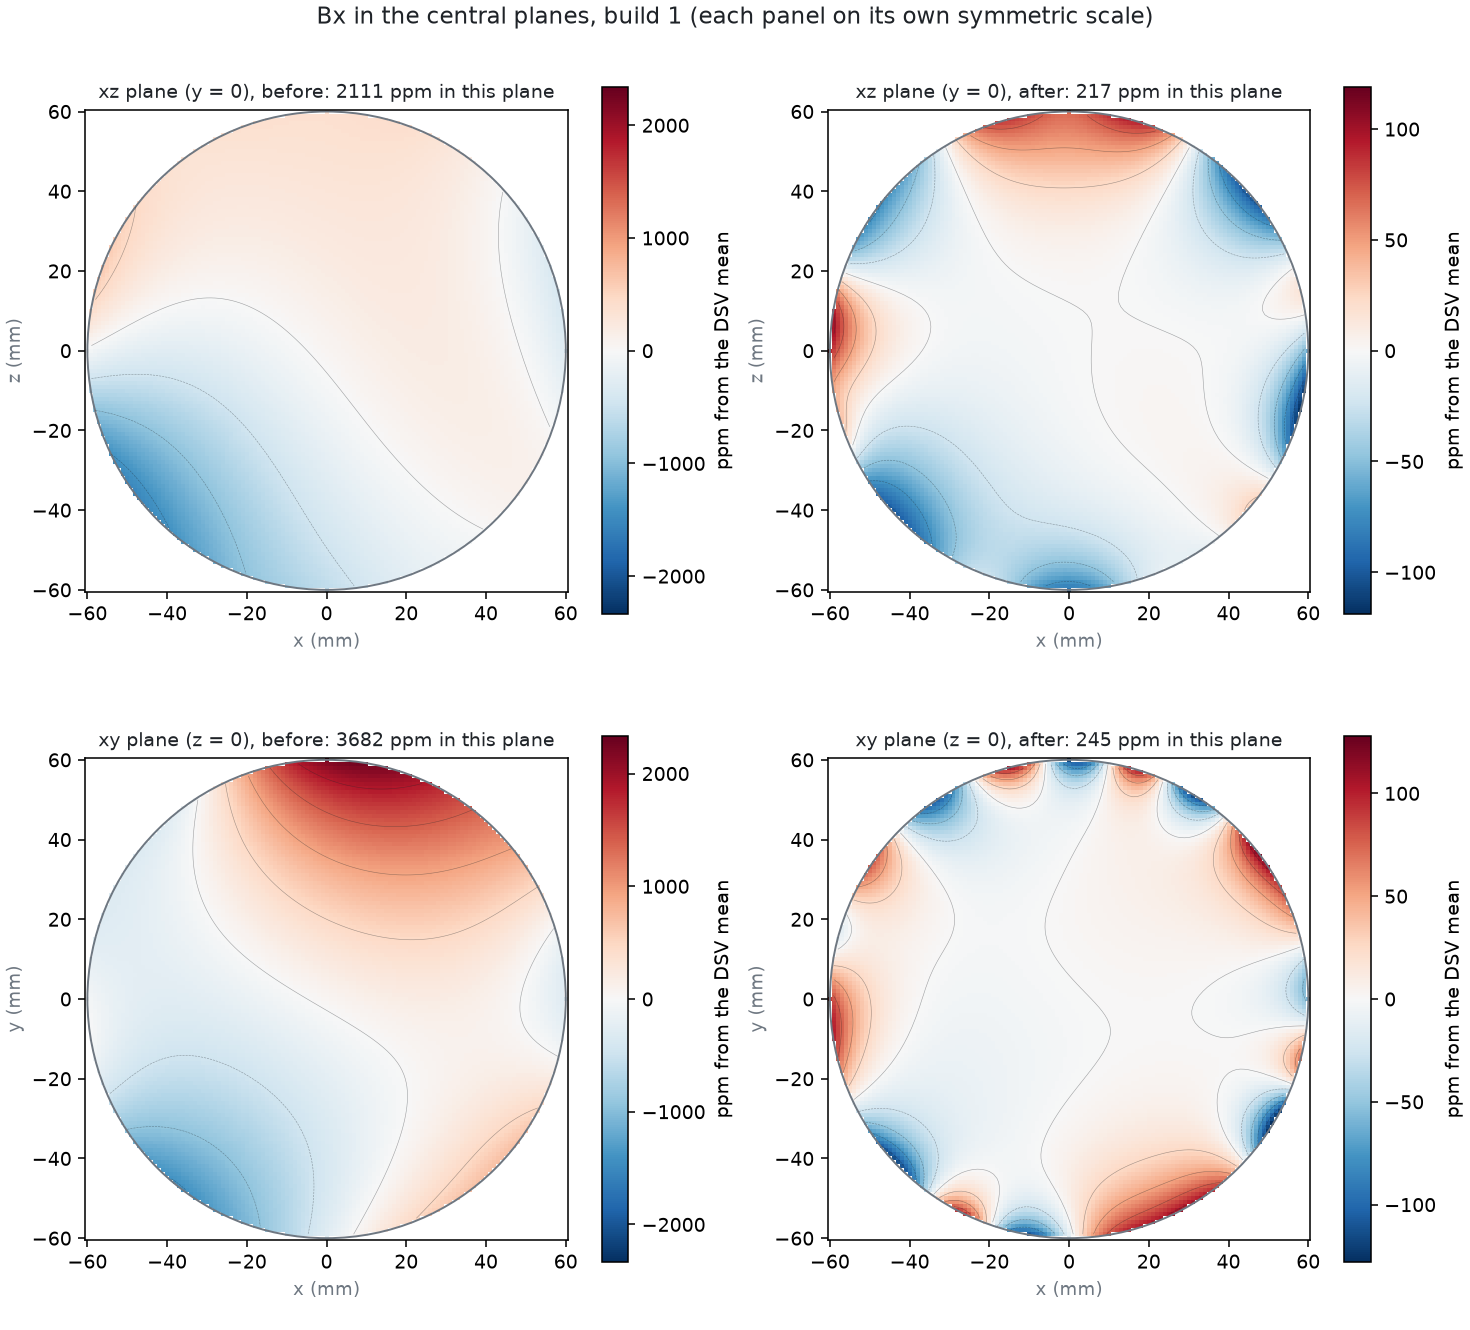
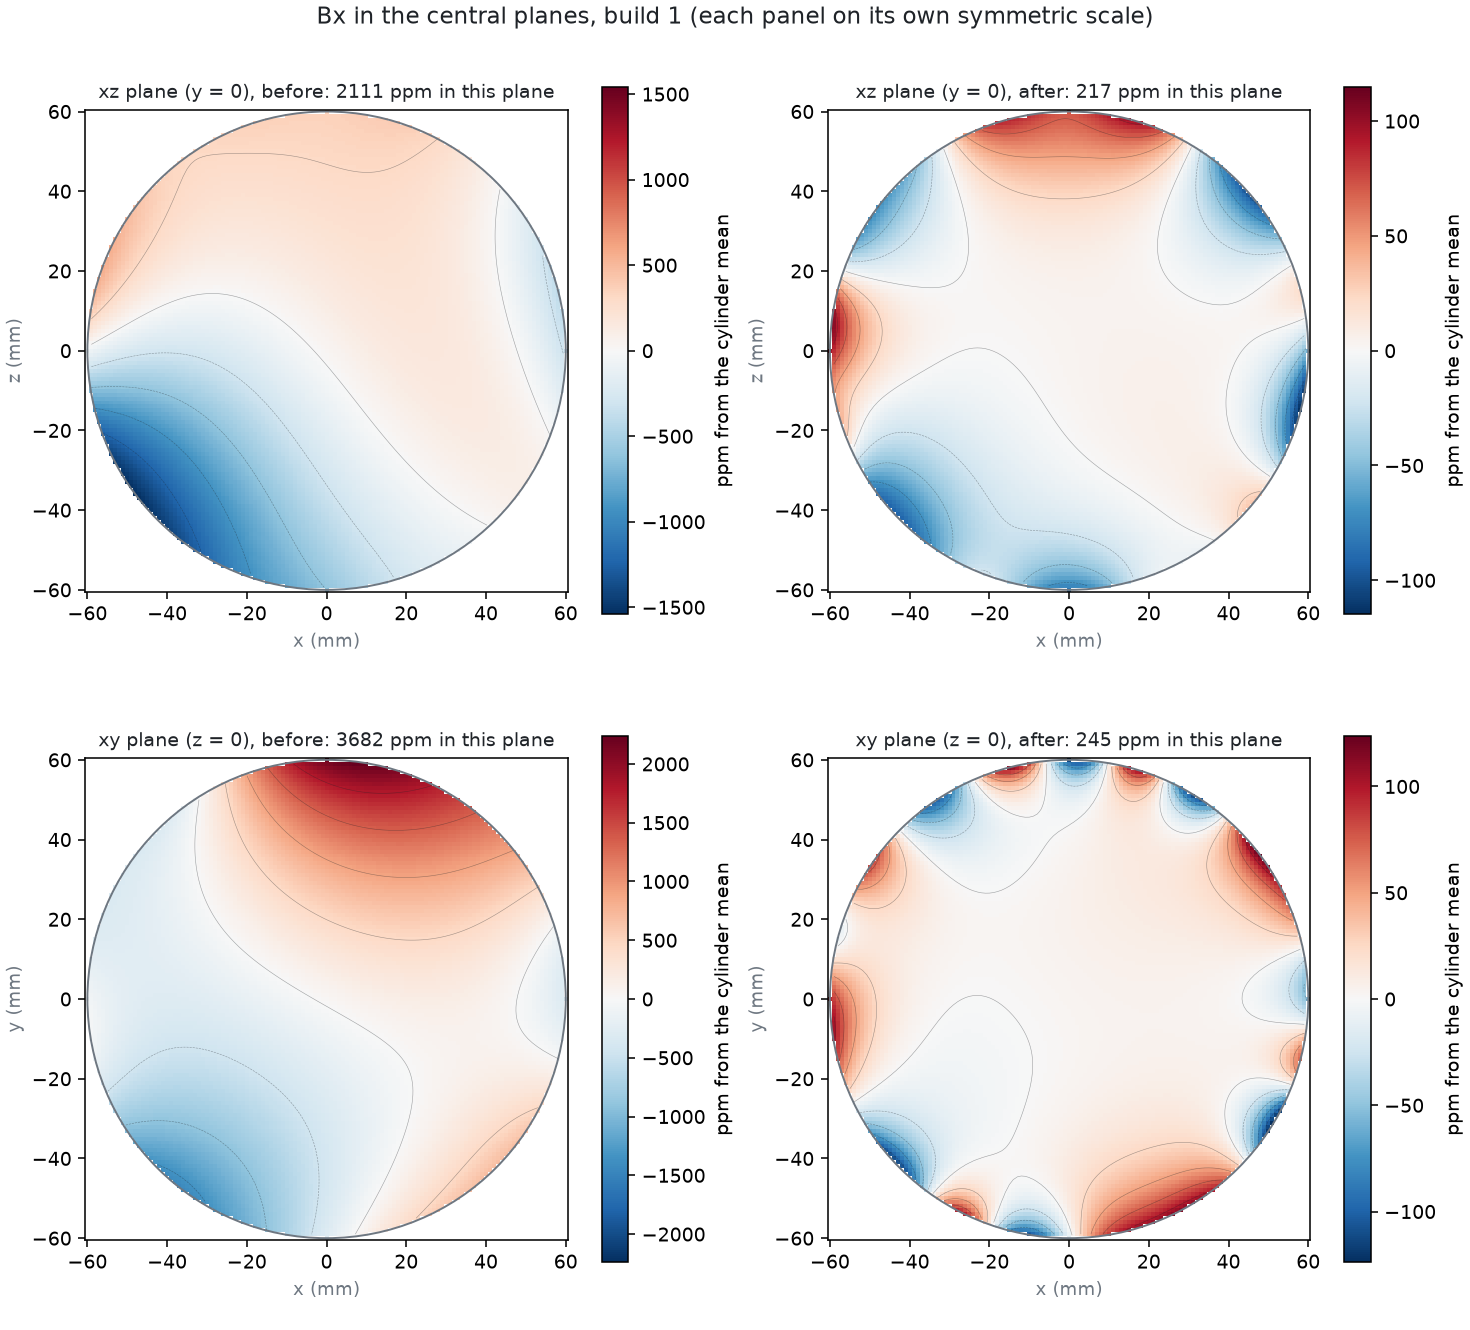
Shim pictures: field on a cylinder inside the DSV (side unrolled at true size, end caps) instead of the sphere map

diff --git a/utilities/plot_shim_12cm.py b/utilities/plot_shim_12cm.py
@@ -6,7 +6,8 @@ and the shim cubes ring by ring.
         [--build N]   (default: the build with the worst unshimmed field)
 
 "After" uses one draw of real shim cubes (their own Br, angle and position errors, as in shim_12cm.py), not ideal cubes.
-Writes field_sphere_b<N>.png, field_planes_b<N>.png and shim_layout_b<N>.png into the shim folder.
+Writes field_cylinder_b<N>.png (field on a cylinder in the imaging region: side unrolled at true size, end caps),
+field_planes_b<N>.png and shim_layout_b<N>.png into the shim folder.
 """
 import argparse
 import os
@@ -41,6 +42,8 @@ def main():
     ap.add_argument('--shim-br-tol', type=float, default=3.0)
     ap.add_argument('--shim-ang-tol', type=float, default=1.5)
     ap.add_argument('--shim-pos-tol', type=float, default=0.1)
+    ap.add_argument('--cyl-d', type=float, help='cylinder diameter, mm (default: DSV / sqrt 2, fits in the DSV)')
+    ap.add_argument('--cyl-len', type=float, help='cylinder length, mm (default: DSV / sqrt 2)')
     ap.add_argument('--bore', type=float, default=200)
     ap.add_argument('--seed', type=int, default=7)
     a = ap.parse_args()
@@ -69,30 +72,70 @@ def main():
         before = S.cuboid_B(bpos, bquat, bmag, S.BLOCK, P)[:, 0]
         return before, before + S.cuboid_B(spos, squat, smag, (a.cube,) * 3, P)[:, 0]
 
-    # ---- field over the DSV surface (equirectangular map) ----
+    # ---- field on a cylinder in the imaging region: side unrolled (no distortion) + both end caps ----
     rs = a.dsv / 2
-    lon, lat = np.linspace(-180, 180, 181), np.linspace(-90, 90, 91)
-    LO, LA = np.meshgrid(np.deg2rad(lon), np.deg2rad(lat))
-    P = rs * np.c_[(np.cos(LA) * np.cos(LO)).ravel(), (np.cos(LA) * np.sin(LO)).ravel(), np.sin(LA).ravel()]
-    B0, B1 = fields(P)
-    m0, m1 = ppm_map(B0, B0.mean()).reshape(LA.shape), ppm_map(B1, B1.mean()).reshape(LA.shape)
-    lim0 = np.abs(m0).max()
-    lim1 = np.abs(m1).max()
-    fig, axs = plt.subplots(1, 3, figsize=(16, 4.6), dpi=140, constrained_layout=True)
-    panels = [(m0, lim0, f'Before: {np.ptp(m0):.0f} ppm peak-to-peak'),
-              (m1, lim0, f'After, same scale: {np.ptp(m1):.0f} ppm'),
-              (m1, lim1, f'After, own scale: {np.ptp(m1):.0f} ppm')]
-    for ax, (m, lim, title) in zip(axs, panels):
-        im = ax.pcolormesh(lon, lat, m, cmap=CMAP, vmin=-lim, vmax=lim, shading='auto')
-        ax.contour(lon, lat, m, levels=np.linspace(-lim, lim, 11), colors=INK, linewidths=0.3, alpha=0.4)
-        ax.set_title(title, fontsize=11, color=INK)
-        ax.set_xlabel('longitude about z (deg; 0 = +x = B0)', fontsize=9, color=MUTED)
-        ax.set_ylabel('latitude (deg; +90 = +z)', fontsize=9, color=MUTED)
+    rc = a.cyl_d / 2 if a.cyl_d else rs / np.sqrt(2)        # default: largest D = L cylinder inside the DSV
+    hc = a.cyl_len / 2 if a.cyl_len else rs / np.sqrt(2)
+    s_arc = np.linspace(-np.pi * rc, np.pi * rc, 241)       # arc length around the side, 0 = +x
+    zc = np.linspace(-hc, hc, 81)
+    SA, ZC = np.meshgrid(s_arc, zc)
+    Pside = np.c_[(rc * np.cos(SA / rc)).ravel(), (rc * np.sin(SA / rc)).ravel(), ZC.ravel()]
+    gc = np.linspace(-rc, rc, 81)
+    CX, CY = np.meshgrid(gc, gc)
+    disc = (CX ** 2 + CY ** 2 <= rc ** 2).ravel()
+    Pcap = [np.c_[CX.ravel()[disc], CY.ravel()[disc], np.full(disc.sum(), z)] for z in (-hc, hc)]
+    n1, n2 = len(Pside), disc.sum()
+    Bb, Ba = fields(np.r_[Pside, Pcap[0], Pcap[1]])
+    B0, B1 = Bb, Ba                                          # means used by the plane plots too
+
+    def split(B):
+        m = ppm_map(B, B.mean())
+        caps = []
+        for k in range(2):
+            c = np.full(CX.size, np.nan)
+            c[disc] = m[n1 + k * n2:n1 + (k + 1) * n2]
+            caps.append(c.reshape(CX.shape))
+        return m[:n1].reshape(SA.shape), caps, np.ptp(m)
+
+    side0, caps0, p0 = split(Bb)
+    side1, caps1, p1 = split(Ba)
+    lim0 = max(np.abs(side0).max(), *(np.nanmax(np.abs(c)) for c in caps0))
+    lim1 = max(np.abs(side1).max(), *(np.nanmax(np.abs(c)) for c in caps1))
+    fig = plt.figure(figsize=(18, 7.2), dpi=140, constrained_layout=True)
+    gsf = fig.add_gridspec(2, 3, height_ratios=[hc * 2, rc * 2 * 0.75])
+    panels = [(side0, caps0, lim0, f'Before: {p0:.0f} ppm peak-to-peak'),
+              (side1, caps1, lim0, f'After, same scale: {p1:.0f} ppm'),
+              (side1, caps1, lim1, f'After, own scale: {p1:.0f} ppm')]
+    off = rc * 1.3
+    for col, (side, caps, lim, title) in enumerate(panels):
+        ax = fig.add_subplot(gsf[0, col])
+        im = ax.pcolormesh(s_arc, zc, side, cmap=CMAP, vmin=-lim, vmax=lim, shading='auto')
+        ax.contour(s_arc, zc, side, levels=np.linspace(-lim, lim, 11), colors=INK, linewidths=0.3, alpha=0.4)
         ax.set_aspect('equal')
-        fig.colorbar(im, ax=ax, shrink=0.8, label='ppm from the mean')
-    fig.suptitle(f'Bx over the {a.dsv:g} mm DSV surface, build {b} (blocks +-3% Br, +-1.5 deg, +-0.1 mm), {len(lay)} shim cubes '
-                 f'(real cubes, one installation)', fontsize=12, color=INK)
-    f1 = os.path.join(a.shim_dir, f'field_sphere_b{b}.png')
+        ax.set_title(f'{title}\nside, unrolled (true size)', fontsize=10.5, color=INK)
+        ticks = np.array([-180, -90, 0, 90, 180])
+        ax.set_xticks(np.deg2rad(ticks) * rc)
+        ax.set_xticklabels(['-x', '-y', '+x (B0)', '+y', '-x'], fontsize=8)
+        ax.set_xlabel(f'around the cylinder ({2 * np.pi * rc:.0f} mm of arc)', fontsize=9, color=MUTED)
+        ax.set_ylabel('z (mm)', fontsize=9, color=MUTED)
+        ax2 = fig.add_subplot(gsf[1, col])
+        for k, (c, lab) in enumerate(zip(caps, (f'-z end cap (z = {-hc:.0f})', f'+z end cap (z = {hc:+.0f})'))):
+            xs = gc + (2 * k - 1) * off
+            ax2.pcolormesh(xs, gc, c, cmap=CMAP, vmin=-lim, vmax=lim, shading='auto')
+            ax2.contour(xs, gc, c, levels=np.linspace(-lim, lim, 11), colors=INK, linewidths=0.3, alpha=0.4)
+            ax2.add_patch(Circle(((2 * k - 1) * off, 0), rc, fill=False, ec=MUTED, lw=0.8))
+            ax2.text((2 * k - 1) * off, rc + 4, lab, ha='center', fontsize=8.5, color=INK)
+            ax2.annotate('', xy=((2 * k - 1) * off + 14, -rc - 5), xytext=((2 * k - 1) * off - 2, -rc - 5),
+                         arrowprops=dict(arrowstyle='-|>', lw=0.8, color=MUTED))
+            ax2.text((2 * k - 1) * off + 17, -rc - 5, '+x', fontsize=7.5, color=MUTED, va='center')
+        ax2.set_xlim(-off - rc - 3, off + rc + 3); ax2.set_ylim(-rc - 10, rc + 9)
+        ax2.set_aspect('equal'); ax2.axis('off')
+        ax2.text(0, -rc - 5, 'both seen from +z', ha='center', va='center', fontsize=8, color=MUTED)
+        fig.colorbar(im, ax=[ax, ax2], shrink=0.7, label='ppm from the cylinder mean')
+    fig.suptitle(f'Bx on a {2 * rc:.0f} mm dia x {2 * hc:.0f} mm long cylinder inside the {a.dsv:g} mm DSV, build {b} '
+                 f'(blocks +-3% Br, +-1.5 deg, +-0.1 mm), {len(lay)} shim cubes (real cubes, one installation)',
+                 fontsize=12, color=INK)
+    f1 = os.path.join(a.shim_dir, f'field_cylinder_b{b}.png')
     fig.savefig(f1, facecolor='white'); plt.close(fig)
 
     # ---- central planes ----
@@ -107,7 +150,7 @@ def main():
         for col, (Bv, mean, label) in enumerate([(Bb, B0.mean(), 'before'), (Ba, B1.mean(), 'after')]):
             M = np.full(U.shape, np.nan)
             M[inside] = ppm_map(Bv, mean)
-            lim = lim0 if col == 0 else max(np.nanmax(np.abs(M)), 1)
+            lim = max(np.nanmax(np.abs(M)), 1)
             ax = axs[row, col]
             im = ax.pcolormesh(g, g, M, cmap=CMAP, vmin=-lim, vmax=lim, shading='auto')
             ax.contour(g, g, M, levels=np.linspace(-lim, lim, 11), colors=INK, linewidths=0.3, alpha=0.4)
@@ -117,7 +160,7 @@ def main():
             ax.set_xlabel(f'{xl} (mm)', fontsize=9, color=MUTED); ax.set_ylabel(f'{yl} (mm)', fontsize=9, color=MUTED)
             ax.set_title(f'{name}, {label}: {np.nanmax(M) - np.nanmin(M):.0f} ppm in this plane', fontsize=10,
                          color=INK)
-            fig.colorbar(im, ax=ax, shrink=0.85, label='ppm from the DSV mean')
+            fig.colorbar(im, ax=ax, shrink=0.85, label='ppm from the cylinder mean')
     fig.suptitle(f'Bx in the central planes, build {b} (each panel on its own symmetric scale)', fontsize=12,
                  color=INK)
     f2 = os.path.join(a.shim_dir, f'field_planes_b{b}.png')
@@ -196,7 +239,7 @@ def main():
     fig.tight_layout()
     f3 = os.path.join(a.shim_dir, f'shim_layout_b{b}.png')
     fig.savefig(f3, facecolor='white'); plt.close(fig)
-    print(f'build {b}: {np.ptp(m0):.0f} -> {np.ptp(m1):.0f} ppm on the map grid')
+    print(f'build {b}: {p0:.0f} -> {p1:.0f} ppm on the cylinder')
     print(f1, f2, f3, sep='\n')
 
 

diff --git a/utilities/README.md b/utilities/README.md
@@ -21,7 +21,7 @@ parallelized and chunked to stay at about 4 GB of RAM; `--jobs` sets the number 
 | `assembly_12cm.py` | Force on each plate (and on each block) while stacking the plates in several orders, and while closing all plates together on long rods; rod length needed | `assembly_pairs.pkl` (cache) + stdout | ~4 min first run, seconds after |
 | `insertion_12cm.py` | Axial force on seated blocks while a neighbour is pushed into its pocket, and on the block being inserted | stdout | ~1 min |
 | `plot_slice_2d.py` | 2D cross-section of one plate (default: the one with the most blocks): block footprints, magnetization, bore, OD, DSV | `slice_z<z>.png` | seconds |
-| `plot_shim_12cm.py` | Pictures of a shim solution: Bx over the DSV surface and central planes before/after (real cubes), the cubes ring by ring | `field_sphere_b<i>.png`, `field_planes_b<i>.png`, `shim_layout_b<i>.png` | ~1 min |
+| `plot_shim_12cm.py` | Pictures of a shim solution: Bx on a cylinder inside the DSV (side unrolled, end caps) and central planes before/after (real cubes), the cubes ring by ring | `field_cylinder_b<i>.png`, `field_planes_b<i>.png`, `shim_layout_b<i>.png` | ~1 min |
 | `shim_12cm.py` | Passive shim insert (a stack of printed rings in the bore holding 1/8" cubes): placement from a field map or simulated as-built builds, as-built ppm with the cubes' own errors, loads on the cubes and the stack | `shim_<cube>mm/` | ~6 min for 3 builds |
 
 Saved outputs live next to the design, e.g. `designs/12cm_bore200/forces.txt`, `assembly.txt`, `insertion.txt`

diff --git a/designs/12cm_bore200/README.md b/designs/12cm_bore200/README.md
@@ -139,7 +139,7 @@ layout. Plan on ~20-55 cubes per shim (buy ~100). Cubes land only in rings 2-8 (
 
 Worst build (1), real cubes, one installation:
 
-![field on the DSV](shim_3.175mm/field_sphere_b1.png)
+![field on a cylinder in the DSV (85 mm dia x 85 mm, side unrolled at true size, end caps)](shim_3.175mm/field_cylinder_b1.png)
 ![central planes](shim_3.175mm/field_planes_b1.png)
 ![shim cubes](shim_3.175mm/shim_layout_b1.png)
 
